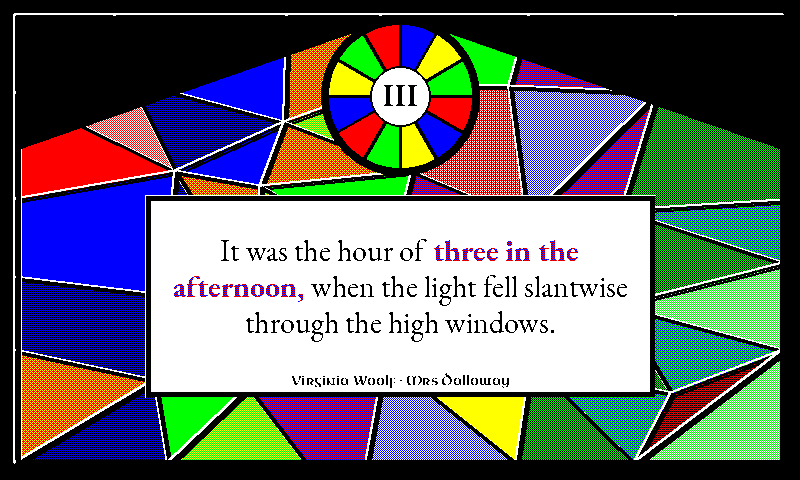
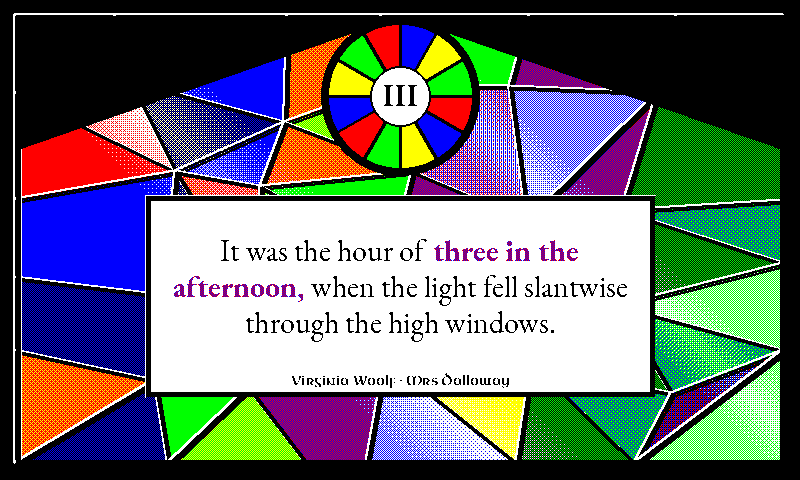
vitrail: add diagonal specular sheen so the panes read as glossy glass
Sweep a couple of diagonal "light reflection" bands across the filled glass
(_vitrail_paint_shimmer): white is stippled into the glass at a Bayer density
that peaks on each band's centreline and tapers to its edges, lifting the
local jewel tone toward a pale sheen along the streak. Runs after the pane
fills but before the came / rose / cartouche so those paint cleanly over it,
and skips black/white pixels so it only touches glass colour. Deterministic
(pure function of pixel position) and on-palette (white is native).

Regenerates the preview and updates the docs.

diff --git a/idle_hours/render_quote.py b/idle_hours/render_quote.py
@@ -13011,6 +13011,52 @@ def _vitrail_paint_glass_panes(image: Image.Image, panes: list) -> None:
         _vitrail_fill_polygon(image, polygon, spec)
 
 
+# Diagonal specular "sheen" bands swept across the glass so the panes read as a
+# glossy reflective surface catching light, not flat colour fields. Each entry
+# is (centre_fraction, half_width_px, peak_density) in the t = x − y diagonal
+# coordinate (lines of constant x − y run top-left → bottom-right, the classic
+# glass-glint direction with light from the upper-left). White is stippled into
+# the glass with density tapering linearly to zero at each band's edge.
+_VITRAIL_SHIMMER = [(0.40, 90, 0.42), (0.66, 52, 0.27)]
+
+
+def _vitrail_paint_shimmer(image: Image.Image, field: tuple[int, int, int, int]) -> None:
+    """Sweep diagonal specular sheen bands across the filled glass.
+
+    Lifts the local glass colour toward white along a couple of diagonal
+    streaks (white stippled in at a Bayer density that peaks at each band's
+    centreline and tapers to zero at its edges), so the panes read as a glossy
+    reflective surface. Only pixels that already carry glass colour are touched
+    — black came / background and pure-white pixels are skipped — and the pass
+    runs before the came / rose / cartouche so those paint cleanly over it.
+    Deterministic: a pure function of pixel position."""
+    WHITE = SPECTRA6["white"]
+    BLACK = SPECTRA6["black"]
+    x0, y0, x1, y1 = field
+    t_min = x0 - y1
+    span = (x1 - y0) - t_min
+    if span <= 0:
+        return
+    bands = [(t_min + frac * span, hw, peak) for frac, hw, peak in _VITRAIL_SHIMMER]
+    px = image.load()
+    for y in range(y0, y1):
+        brow = BAYER_4x4[y % 4]
+        for x in range(x0, x1):
+            cur = px[x, y]
+            if cur == BLACK or cur == WHITE:
+                continue
+            t = x - y
+            best = 0.0
+            for centre, hw, peak in bands:
+                d = abs(t - centre)
+                if d < hw:
+                    dens = peak * (1.0 - d / hw)
+                    if dens > best:
+                        best = dens
+            if best > 0.0 and brow[x % 4] < round(best * 16):
+                px[x, y] = WHITE
+
+
 def _vitrail_paint_arch_spandrels(
     image: Image.Image, draw: ImageDraw.ImageDraw, field: tuple[int, int, int, int],
 ) -> None:
@@ -13238,6 +13284,7 @@ def render_vitrail_frame(time_str: str, quote_row: dict, width: int, height: int
     # cartouche frame + quote body + attribution.
     panes = _vitrail_build_panes(field)
     _vitrail_paint_glass_panes(image, panes)
+    _vitrail_paint_shimmer(image, field)
     _vitrail_paint_lead_came(draw, panes, field)
     _vitrail_paint_arch_spandrels(image, draw, field)
     try:

diff --git a/CLAUDE.md b/CLAUDE.md
@@ -555,7 +555,7 @@ Imports `pick_quote` in-process (`pick_quote_module.select_quote`) and lays out 
   - `vinyl` (cream-washed sleeve / black Cormorant Garamond body / tangerine matched-phrase / red label + black tonearm, turntable + literary-audiobook LP back-cover — the fifth theme to bypass the literary layout entirely. Visually a 1950s/60s spoken-word LP in the **Caedmon Records / Spoken Arts / Listening Library register** — those labels pressed Dylan Thomas, T. S. Eliot, Auden et al. reading their own work to vinyl, the discs looked mechanically identical to music LPs (33 RPM, grooved, jacketed, library-distributed), and they are the historical bridge between a vinyl visual and a literary corpus. Composition divides the canvas down the middle: **left half is the turntable** with a black vinyl LP (radius 200, centred at `(_VINYL_DISK_CX, _VINYL_DISK_CY) = (200, 240)`) — densely-packed concentric groove hairlines (1-px white ellipses every 3 px across the programme band r_label+12 → r_outer-10 = ~33 grooves that blur at panel distance into a textured silvery band — earlier revisions used only 3-4 rings spaced 28 px apart which read as decorative concentric circles rather than as actual pressed-vinyl grooves), a heavier 2-px lead-in groove just inside the rim, and a smooth dead-wax ring between the inner groove and the label — the three-zone authentic LP pressing structure. The **pivoted tonearm** (`_vinyl_paint_tonearm`) replaces an earlier straight-line stylus rendition: the arm pivots from a fixed point at `_VINYL_TONEARM_PIVOT = (388, 70)` (upper-right of the turntable plate, off the disk itself), with a counterweight cylinder behind the pivot (small black filled circle + red outline ring) and a black cartridge headshell at the front (a 4-point polygon rotated to follow the arm angle, since PIL has no rotate-rectangle primitive); the cartridge stylus pin (small red filled circle) lands on the disk rim at the current-minute angle (12-o'-clock = minute 0, clockwise) — the canonical "this is a turntable" silhouette every consumer LP-deck has worn into collective memory, without which the disk reads as a generic vinyl drawing. The red 80-px-radius **label** carries an outer 2-px black ring border (inset 4 px from the label edge), a `· SPOKEN WORD ·` format mark along the top arc in small Antonio Bold (the audiobook-LP equivalent of a music LP's STEREO format mark), the matched-phrase snippet truncated to 18 chars as the "passage title" in Cormorant Bold 11pt, a thin white hairline divider, an `IDLE HOURS` Cormorant Bold 14pt brand line, a `READ ALOUD` Cormorant Regular 11pt sub-title (the audiobook-LP equivalent of music LP's "VOLUME I"), a Space Mono Bold catalog number like `IH-H11-15` derived from the fuzzy bucket via `_vinyl_catalog_number`, and a `© YYYY` year stamp at the bottom arc — all white-on-red. Render order on the turntable side is **disk body (black + grooves only, no label / spindle) → tonearm (line may cross over the inner disk and label area) → label (red fill + outer ring + STEREO + brand + spindle)**, so the label paints on top of the arm without the arm cutting through the brand-stack text. **Right half is the cream-washed liner-notes panel**: a small red `— READING —` Antonio Bold heading at the top (the Caedmon-Records equivalent of a music LP's "TRACK ONE" sleeve heading), the literary quote in Cormorant Garamond with a tangerine R+Y 5/8:3/8 matched-phrase substitution (the documented `deco` / `astrarium` recipe), author · title attribution, a bottom catalog bar reading `IDLE HOURS LITERARY RECORDINGS  ·  CAT NO. IH-H11-15  ·  © YYYY` in Cardo Italic 11pt with a thin black hairline rule above (the small-print band real LP back covers carry at the bottom of the jacket), and a `33 RPM` badge in the top-right corner (earlier revisions used the unicode `⅓` glyph but Space Mono Bold doesn't carry that codepoint and the badge tofu'd; ASCII `33 RPM` is the canonical fallback every record-jacket designer reaches for when the fractional ⅓ isn't available). Daily-seeded wear marks on the sleeve (`_vinyl_paint_wear_speckle(seed=YYYYMMDD)`) — same-day re-renders produce the identical speckle pattern, day-to-day re-renders drift naturally. Saturation tier `0.5` (white-ground tier) — the cream sleeve dominates visually and the black vinyl disk has no synthesised colour that needs a saturation boost; the matched-phrase tangerine R+Y uses the same recipe `astrarium` does and reads correctly at this saturation.
   - `kanagawa` (white/black/red, Yuji Boku sumi-brush — Yuji Hamasaki, OFL via Google Fonts — a stylised Japanese seascape inspired by Hokusai's "Thirty-six Views of Mount Fuji" series. An earlier revision attempted a literal Great-Wave silhouette via parametric Gaussian-peak polygons but PIL polygon fills + a 6-colour palette can't carry the ink-brush nuance the print needs; the design pivoted to the canonical seigaiha (青海波 / "blue ocean waves") textile pattern as the centrepiece — overlapping fish-scale half-disks (`draw.pieslice` from 180° to 360°) in indigo with three concentric white arc stripes (radii 23 / 18 / 13) inside each scale, arranged in tight rows with each row offset by half a tile width from the row above so only the upper crescent of each scale shows — the iconic woven-textile rhythm. Tile geometry is held on module-level constants (`_SEIGAIHA_TILE_RADIUS = 28`, `_SEIGAIHA_RING_RADII`) and the helper `_draw_seigaiha_band` fills an arbitrary horizontal band so future themes can reuse the primitive. Composition layers above the seigaiha (deepest → shallowest): a vertically-graduated sky-blue Bayer wash (the first *gradient* Bayer wash in the codebase — threshold tapers linearly from 5/16 at y=0 to 0 at the horizon y≈264, reading as morning haze), five distant ink-stroke birds at module-level deterministic anchors (`_KANAGAWA_BIRD_ANCHORS`, with asymmetric per-bird left/right wing droops so the flock reads as five distinct soaring silhouettes rather than identical V stamps), and a thin sparse-stippled blue horizon line at y≈297 separating sky from seigaiha. The deepest seigaiha row picks up a navy stipple post-pass (B+K 1:1, the documented `bauhaus` matched-phrase recipe) so the bottom of the "ocean" reads as deeper water. A red rounded-rectangle hanko seal (32×38 px at the bottom-right corner, with a stylised `川` "kawa" / "river" kanji painted in 2 px white strokes — leftmost stroke kinked at the top to suggest brush motion) anchors the BR; the seal's base picks up a bbox `(x+y)&1` maroon post-pass (R+K 1:1, the documented recipe `dispatch` and `chanbara` both use) so it reads as the aged oxblood of a real archival ink stamp. The body text + attribution sit inside a cream-tinted rounded paper panel knocked out of the seigaiha (radius 12 via `draw.rounded_rectangle`), painted via the same `clear_rect` dispatch in `render()` that `blueprint` uses for its graph-paper grid knockout. The panel has a 1 px black frame following the rounded corner arc and a 2 px black drop-shadow ledge on the bottom-right edge (a black rounded rect offset 2 px right/down before the cream fill — the cream covers all but the 2 px ledge), reading as a hand-pressed paper card lifted slightly above the seigaiha textile. The cream tint uses 4 off-grid anchor positions per 8×8 tile (at (1,3) + (5,6) + (2,7) + (6,2), ~6% yellow density on white) rather than the regular 4×4 Bayer matrix — the off-grid placement avoids the "lemon grid" lattice effect a Bayer pattern produces at desktop zoom against the saturated seigaiha indigo, while still averaging to warm vellum at panel-viewing distance. Matched time phrase: solid Spectra red — the classic ukiyo-e signature-red register, tied tonally to the hanko seal's red base. Body face is Yuji Boku, the first proper Japanese sumi-brush face in the bundle (single Regular weight; matched-phrase role re-uses Regular and gains differentiation from the red accent alone, same trick comic / dispatch / atomic / marker / saloon / deco / glacier / chalkboard / placard / chanbara use). Sits visually distinct from the rotation's other Japanese-flavoured theme (`chanbara` — dramatic all-caps samurai-cinema brush via Shojumaru): chanbara is samurai *cinema* in a bold display brush with a rising sun, kanagawa is woodblock-print *textile* in a calligraphic body brush with seigaiha as the dominant motif. No outer frame — authentic woodblock prints have no border (same composition discipline as `fillmore`); kanagawa is intentionally absent from `_DEBUG_LABEL_RIGHT_INSET` since the seigaiha sits in the bottom half and no graphic touches the y=14-29 banner band).
   - `cartograph` (cream-washed white / black IM Fell English Italic body / red matched-phrase, hand-drawn antique cartographer's chart — a literary-layout theme with a heavy `draw_cartograph_border` decoration rather than a custom-render frame. White-paper ground warmed by a cream Y+W Bayer Layer-0 wash plus a sparse R+G sepia foxing scatter (the same two-pass aged-paper recipe `newsprint` / `tarot` use, here over cream); two diagonal-corner coastline silhouettes in R+G sepia, a 32-px R+Y tangerine compass rose at the bottom-left, a small black sea-serpent margin doodle ("here be dragons"), three hand-lettered italic Latin place labels in sepia, and a `clear_rect` knockout of the body region to a clean cream cartouche with a doubled red+black rubricated rule and registration-cross corner accents (the same knockout `kanagawa` / `blueprint` use). The matched phrase picks IM Fell *Regular* (upright Roman) in solid red so differentiation arrives via colour + roman/italic split rather than weight — the canonical "place name upright, body legend italic" cartographic convention. Completes the navigation trio alongside `firmament` (celestial atlas) and `astrarium` (instrument dashboard). Saturation tier `0.5`.)
-  - `vitrail` (jewel-glass field / black lead-came / clear white-glass quote cartouche, Gothic stained-glass cathedral window — the sixth theme to bypass the literary layout entirely, dispatching from `render` into its own `render_vitrail_frame`. The "take full advantage of the hardware" theme: a tall lancet window whose black lead-came tracery (`_vitrail_paint_lead_came`) divides the canvas into an irregular hand-leaded mosaic of jewel-toned glass shapes that deliberately exercise the FULL synthesised Spectra-6 palette — the four saturated native inks plus amber/gold (R+Y 5/8:3/8 tangerine), royal purple (R+B 1:1), teal (G+B 5/8:3/8), plum (R+B+K 3-ink), lavender (R+B+W 3-ink), rose/coral (R+W), sky-blue (B+W), olive (Y+G), mint (G+W), navy (B+K) and forest (G+K) — drawn deterministically from the module-level `_VITRAIL_GLASS` spec list. `_vitrail_build_panes` starts from a 6×5 lattice, pins the border vertices to the frame but nudges every interior vertex off-grid by a seeded RNG (`_VITRAIL_SEED` / `_VITRAIL_JITTER`), then splits ≈half the cells (`_VITRAIL_SPLIT_PROB`) along one diagonal into two triangular shards with different tones — so the field reads as varied quadrilaterals and triangles rather than a regular grid. Each shape is filled via `_vitrail_fill_polygon` (a 1-bit polygon mask + the per-pixel `_vitrail_pane_ink`, whose solid / 2-ink / 3-ink branches mirror `_fill_swatch_stipple` / `_fill_swatch_stipple_3way` against absolute x/y so the Bayer phase stays continuous across seams), and `_vitrail_paint_lead_came` then strokes every shape's closed outline as a *beveled raised bar* — three offset passes per seam (white specular highlight offset up-left = the lit top of the rounded lead, black drop shadow offset down-right = the shadow the raised bar casts onto the recessed glass, black core last) modelling light from the upper-left, so the came reads as a physical 3D frame standing proud of the glass rather than flat lines (`_VITRAIL_CAME_BEVEL` sets the offset). The outer stone surround (`_vitrail_paint_outer_frame`) and the central cartouche frame carry the same lit-top-left / shadowed-bottom-right lip so the clear glass reads as recessed behind raised lead. A pointed lancet arch is carved into the top by filling the two top-corner spandrels black (`_vitrail_paint_arch_spandrels`); a rose-window medallion (`_vitrail_paint_rose_window`) at top-centre divides a stone-ringed glass disc into twelve jewel-tone petal wedges by radial came and carries the Roman-numeral hour (Uncial Antiqua, via the shared `_TAROT_ROMAN_NUMERALS` dict) at its clear-glass hub. The literary quote glows in a clear white-glass central cartouche (`_vitrail_paint_quote_cartouche`) knocked out of the colored field with a solid-white wipe — not a wash — so the dark EB Garamond body and the **violet-glass matched phrase (R+B 1:1 via `draw_text_dithered`)** stay legible over the busy panes; author · title attribution sits at the cartouche foot in Uncial Antiqua. The digital HH:MM is never surfaced as plain digits — the matched phrase and the rose-window numeral carry the time. Fully deterministic (no RNG) so re-renders of a given time are byte-identical. The palette in `THEMES` is a plain white/black ground with a blue (violet-glass) accent, consumed only by the goodnight / source-card fall-through paths; the frame itself hardcodes Spectra-6 inks. Saturation tier `0.7` (the colored glass dominates the canvas; the white cartouche has no chroma to scale).)
+  - `vitrail` (jewel-glass field / black lead-came / clear white-glass quote cartouche, Gothic stained-glass cathedral window — the sixth theme to bypass the literary layout entirely, dispatching from `render` into its own `render_vitrail_frame`. The "take full advantage of the hardware" theme: a tall lancet window whose black lead-came tracery (`_vitrail_paint_lead_came`) divides the canvas into an irregular hand-leaded mosaic of jewel-toned glass shapes that deliberately exercise the FULL synthesised Spectra-6 palette — the four saturated native inks plus amber/gold (R+Y 5/8:3/8 tangerine), royal purple (R+B 1:1), teal (G+B 5/8:3/8), plum (R+B+K 3-ink), lavender (R+B+W 3-ink), rose/coral (R+W), sky-blue (B+W), olive (Y+G), mint (G+W), navy (B+K) and forest (G+K) — drawn deterministically from the module-level `_VITRAIL_GLASS` spec list. `_vitrail_build_panes` starts from a 6×5 lattice, pins the border vertices to the frame but nudges every interior vertex off-grid by a seeded RNG (`_VITRAIL_SEED` / `_VITRAIL_JITTER`), then splits ≈half the cells (`_VITRAIL_SPLIT_PROB`) along one diagonal into two triangular shards with different tones — so the field reads as varied quadrilaterals and triangles rather than a regular grid. Each shape is filled via `_vitrail_fill_polygon` (a 1-bit polygon mask + the per-pixel `_vitrail_pane_ink`, whose solid / 2-ink / 3-ink branches mirror `_fill_swatch_stipple` / `_fill_swatch_stipple_3way` against absolute x/y so the Bayer phase stays continuous across seams), and `_vitrail_paint_lead_came` then strokes every shape's closed outline as a *beveled raised bar* — three offset passes per seam (white specular highlight offset up-left = the lit top of the rounded lead, black drop shadow offset down-right = the shadow the raised bar casts onto the recessed glass, black core last) modelling light from the upper-left, so the came reads as a physical 3D frame standing proud of the glass rather than flat lines (`_VITRAIL_CAME_BEVEL` sets the offset). The outer stone surround (`_vitrail_paint_outer_frame`) and the central cartouche frame carry the same lit-top-left / shadowed-bottom-right lip so the clear glass reads as recessed behind raised lead. `_vitrail_paint_shimmer` then sweeps a couple of diagonal specular sheen bands across the filled glass (white stippled in at a Bayer density peaking on each band's centreline and tapering to its edges, skipping black/white pixels) so the panes read as a glossy reflective surface catching light rather than flat colour fields — the pass runs before the came / rose / cartouche so those paint cleanly over it. A pointed lancet arch is carved into the top by filling the two top-corner spandrels black (`_vitrail_paint_arch_spandrels`); a rose-window medallion (`_vitrail_paint_rose_window`) at top-centre divides a stone-ringed glass disc into twelve jewel-tone petal wedges by radial came and carries the Roman-numeral hour (Uncial Antiqua, via the shared `_TAROT_ROMAN_NUMERALS` dict) at its clear-glass hub. The literary quote glows in a clear white-glass central cartouche (`_vitrail_paint_quote_cartouche`) knocked out of the colored field with a solid-white wipe — not a wash — so the dark EB Garamond body and the **violet-glass matched phrase (R+B 1:1 via `draw_text_dithered`)** stay legible over the busy panes; author · title attribution sits at the cartouche foot in Uncial Antiqua. The digital HH:MM is never surfaced as plain digits — the matched phrase and the rose-window numeral carry the time. Fully deterministic (no RNG) so re-renders of a given time are byte-identical. The palette in `THEMES` is a plain white/black ground with a blue (violet-glass) accent, consumed only by the goodnight / source-card fall-through paths; the frame itself hardcodes Spectra-6 inks. Saturation tier `0.7` (the colored glass dominates the canvas; the white cartouche has no chroma to scale).)
 - **Fonts.** Typography is per-theme, and each non-default theme deliberately picks a face from a different type *family* so the rendered frame's silhouette changes with the theme — not just its palette. `THEME_FONTS` maps each `THEMES` entry to a dict with `quote_regular` / `quote_bold` / `ornament` candidate chains, each a list of path strings OR `(path, variation_name)` tuples. The tuple form targets variable fonts — `load_font` calls `set_variation_by_name(name)` after the truetype load, so e.g. the scholar theme picks Regular/Bold instances from a single variable `Bitter-Variable.ttf` (whose default axis instance is Thin — a missing variation call would render near-invisible hairlines on the panel). Every per-theme chain ends at the Playfair / DejaVu defaults so a missing-font install degrades to the default face instead of dropping to the PIL bitmap fallback. System metadata / debug strips always use DejaVu / Noto / Liberation Sans regardless of theme. Install `apt install fonts-noto-core fonts-dejavu-core` if the bundled fonts aren't found. When every TTF candidate is missing, `load_font` logs a one-shot warning to stderr before returning `ImageFont.load_default()` so a misconfigured install surfaces instead of silently producing an 8-pixel bitmap render.
   - `default` and `dark` share the Playfair Display chain (transitional / high-contrast serif; repo-local `idle_hours/fonts/`, then common Pi/Linux paths, with DejaVu Serif / Liberation Serif / Noto Serif as system fallbacks).
   - `scholar` uses **Bitter** — a slab serif; even-contrast blocky terminals read as "academic textbook" and sit visually far from Playfair's display-serif silhouette, Regular body + Bold accent.

diff --git a/README.md b/README.md
@@ -311,7 +311,7 @@ Thirty-seven themes ship built-in, all constrained to the Spectra 6 panel palett
 
 `marquee`, `tarot`, and `vinyl` are three more custom-render themes that follow the `astrarium` pattern — each dispatches out of `render()` into its own frame function and owns its composition top to bottom. **`marquee`** is a 1930s movie-palace facade: a black ground framed by an alternating yellow + red bulb-light border around the entire perimeter (with small white highlight pixels on each bulb so they read as lit glass), big chunky Bungee Shade book title at the top as the "feature title" (uppercased, auto-shrunk through 72→32pt and wrapping to two lines for long titles), a NOW SHOWING tagline above and ONE NIGHT ONLY below, the literary quote rendered in white Cardo Italic with a red matched-phrase accent as the feature copy, and a WRITTEN BY [AUTHOR] credit chrome at the bottom (yellow Antonio Bold label + white Cardo Italic name). The digital HH:MM is deliberately never surfaced — the matched-phrase red highlight in the body carries the time signal, the way every other quote-based literary clock does. **`tarot`** is a single centred major-arcana card on a cream-and-sepia foxed vellum ground: doubled red+black rubricated border with playing-card-style Roman numerals in all four corners (bottom pair rotated 180°), Roman-numeral hour at top (Cinzel Decorative Black), matched-phrase card name in Tyrian purple (R+B 1:1 dither), an hour-mapped emblem at centre (all twelve trumps — Magician through World — ship as detailed line-work templates, ~140–200 px tall), EB Garamond body sitting in a clean cream cartouche knocked out of the surrounding foxing, centred attribution. **`vinyl`** is a turntable + LP back-cover, framed as a 1950s/60s **literary audiobook recording** — same chassis a music LP would have, but with the chrome text in the spoken-word register that real labels like Caedmon Records (Dylan Thomas, T. S. Eliot, Auden) and Spoken Arts pressed during the original audiobook-on-vinyl era. A black vinyl LP fills the left half (centre at (200, 240), radius 200, densely-packed concentric groove hairlines + smooth dead-wax ring + heavier lead-in groove at the rim); a pivoted black tonearm pivots from the upper-right of the turntable with a visible counterweight + cartridge headshell + red stylus pin contacting the disk at the current-minute rim position (sweeping clockwise from 12-o'-clock). The red 80-px-radius label at the spindle carries an outer black ring border, a `· SPOKEN WORD ·` format mark, the matched-phrase passage title, an `IDLE HOURS / READ ALOUD` brand stack, a Space Mono catalog number like `IH-H2-30`, and a `© YYYY` year stamp. The right half is a cream-washed liner-notes panel: a small red `— READING —` heading at the top, the literary quote in Cormorant Garamond with a tangerine R+Y matched-phrase substitution, author/title attribution, and a bottom catalog bar reading `IDLE HOURS LITERARY RECORDINGS  ·  CAT NO. …  ·  © YYYY`. A `33 RPM` badge sits in the top-right corner. As with the other custom-render themes, `--mode debug` does not apply.
 
-**`vitrail`** is a Gothic stained-glass cathedral window, and the theme that leans hardest into the panel's full colour gamut. Black lead-came tracery divides the canvas into an irregular hand-leaded mosaic of jewel-toned glass shapes (a jittered lattice split into varied quadrilaterals and triangular shards, not a uniform grid) that deliberately surface the entire synthesized Spectra 6 palette — the four saturated native inks plus amber/gold, royal purple, teal, plum, lavender, rose, sky-blue, olive, mint, navy and forest, each built from the documented stipple recipes so the frame stays on-palette. The came is drawn as a beveled raised bar (a white specular highlight on the upper-left, a black drop shadow on the lower-right) so it reads as a physical 3D lead frame standing proud of recessed glass rather than flat lines. A pointed lancet arch is carved into the top; a rose-window medallion divides a stone-ringed glass disc into twelve jewel-tone petals and carries the Roman-numeral hour (in Uncial Antiqua) at its hub. The literary quote glows in a clear white-glass central cartouche knocked out of the colored field so the EB Garamond body and the violet-glass matched phrase stay legible, with author/title at the cartouche foot. The digital HH:MM is never surfaced — the matched phrase and the rose-window numeral carry the time. Fully deterministic and, like the other custom-render frames, dispatched out of `render()` into its own frame function (so `--mode debug` does not apply).
+**`vitrail`** is a Gothic stained-glass cathedral window, and the theme that leans hardest into the panel's full colour gamut. Black lead-came tracery divides the canvas into an irregular hand-leaded mosaic of jewel-toned glass shapes (a jittered lattice split into varied quadrilaterals and triangular shards, not a uniform grid) that deliberately surface the entire synthesized Spectra 6 palette — the four saturated native inks plus amber/gold, royal purple, teal, plum, lavender, rose, sky-blue, olive, mint, navy and forest, each built from the documented stipple recipes so the frame stays on-palette. The came is drawn as a beveled raised bar (a white specular highlight on the upper-left, a black drop shadow on the lower-right) so it reads as a physical 3D lead frame standing proud of recessed glass rather than flat lines, and diagonal specular sheen bands are swept across the panes so the glass reads as a glossy reflective surface catching light. A pointed lancet arch is carved into the top; a rose-window medallion divides a stone-ringed glass disc into twelve jewel-tone petals and carries the Roman-numeral hour (in Uncial Antiqua) at its hub. The literary quote glows in a clear white-glass central cartouche knocked out of the colored field so the EB Garamond body and the violet-glass matched phrase stay legible, with author/title at the cartouche foot. The digital HH:MM is never surfaced — the matched phrase and the rose-window numeral carry the time. Fully deterministic and, like the other custom-render frames, dispatched out of `render()` into its own frame function (so `--mode debug` does not apply).
 
 Pass `--theme auto` to let the clock pick by wall-clock time. The defaults are `default` during the day (06:00–18:00) and `dark` at night (18:00–06:00) — the legacy binary contract. Broaden the rotation by setting `--auto-day-theme` and/or `--auto-night-theme` to any other registered theme, e.g.
 
